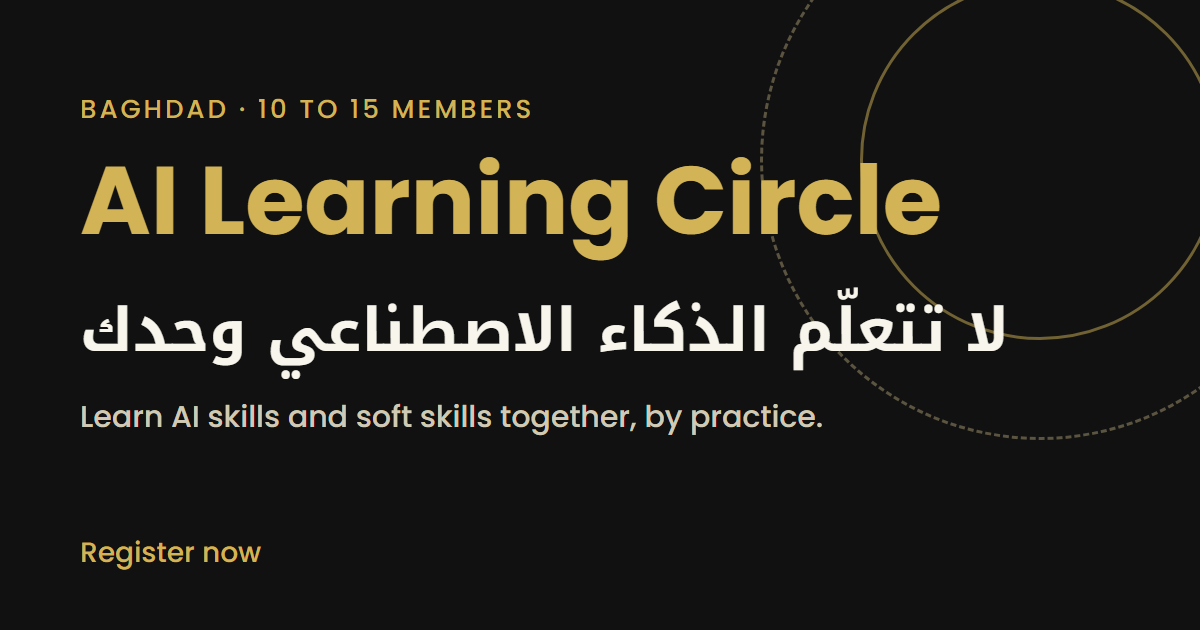
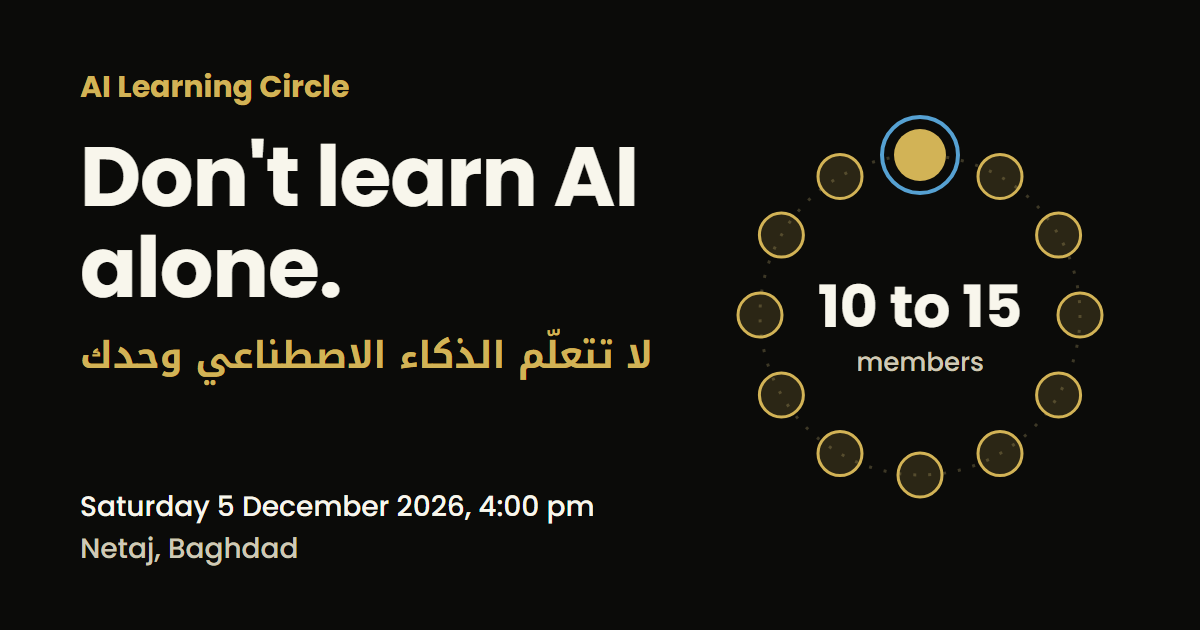
New share preview image (seat ring, date, place)

diff --git a/index.html b/index.html
@@ -6,7 +6,7 @@
 <meta property="og:type" content="website"><meta property="og:url" content="https://faisalalyaseein.github.io/ai-learning-circle/">
 <meta property="og:title" content="AI Learning Circle | لا تتعلّم الذكاء الاصطناعي وحدك">
 <meta property="og:description" content="انضم إلى دائرة صغيرة من 10 إلى 15 مهنياً وأكاديمياً في بغداد يبنون مهارات الذكاء الاصطناعي والمهارات الناعمة معاً بالتطبيق. المقاعد محدودة.">
-<meta property="og:image" content="https://faisalalyaseein.github.io/ai-learning-circle/og.png"><meta property="og:image:width" content="1200"><meta property="og:image:height" content="630">
+<meta property="og:image" content="https://faisalalyaseein.github.io/ai-learning-circle/og.png?v=2"><meta property="og:image:width" content="1200"><meta property="og:image:height" content="630">
 <meta name="twitter:card" content="summary_large_image">
 <link rel="preconnect" href="https://fonts.googleapis.com"><link rel="preconnect" href="https://fonts.gstatic.com" crossorigin>
 <link rel="stylesheet" href="https://fonts.googleapis.com/css2?family=Noto+Kufi+Arabic:wght@400;600;700&family=Poppins:wght@400;500;600;700&display=swap">
